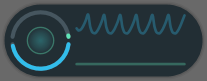
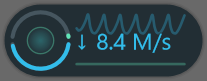
feat: center download reading until hover expands both rates
Keep download visible at its existing font size and animate its position as upload fades in. Reverse the same transition on pointer exit and retain reduced-motion behavior.

Changed region(s): [[0.6377, 0.3951, 0.8406, 0.6667], [0.4638, 0.3951, 0.6087, 0.6173], [0.3768, 0.4198, 0.4348, 0.6173]]

diff --git a/src/WinMon/FloatingRateRenderer.cpp b/src/WinMon/FloatingRateRenderer.cpp
@@ -82,7 +82,7 @@ void FloatingRateRenderer::ReleaseTarget() noexcept
 }
 
 bool FloatingRateRenderer::Render(const std::wstring& upload, const std::wstring& download,
-    const LOGFONTW& font, UINT dpi, double pulsePhase, float textOpacity) noexcept
+    const LOGFONTW& font, UINT dpi, double pulsePhase, float hoverProgress) noexcept
 {
     try
     {
@@ -252,8 +252,9 @@ bool FloatingRateRenderer::Render(const std::wstring& upload, const std::wstring
             trend(uploadHistory_, 0x61e5b7);
             trend(downloadHistory_, 0x32bdeb);
         }
-        textOpacity = std::isfinite(textOpacity) ? std::clamp(textOpacity, 0.0f, 1.0f) : 0;
-        const auto text = [&](const std::wstring& value, size_t style, D2D1_RECT_F rect, UINT32 rgb, DWRITE_TEXT_ALIGNMENT alignment)
+        hoverProgress = std::isfinite(hoverProgress) ? std::clamp(hoverProgress, 0.0f, 1.0f) : 0;
+        const float transition = hoverProgress * hoverProgress * (3 - 2 * hoverProgress);
+        const auto text = [&](const std::wstring& value, size_t style, D2D1_RECT_F rect, UINT32 rgb, DWRITE_TEXT_ALIGNMENT alignment, float opacity)
         {
             ComPtr<IDWriteTextLayout> layout;
             const auto length = static_cast<UINT32>(value.size());
@@ -269,19 +270,19 @@ bool FloatingRateRenderer::Render(const std::wstring& upload, const std::wstring
             if (scale < 1)
                 Check(layout->SetFontSize(formats_[style]->GetFontSize() * scale * 0.98f, {0, length}));
             // A narrow glyph halo keeps overlapping trends from crossing the readings.
-            color(0x222e34, textOpacity);
+            color(0x222e34, opacity);
             for (const auto offset : {D2D1::Point2F(-0.75f, 0), D2D1::Point2F(0.75f, 0),
                 D2D1::Point2F(0, -0.75f), D2D1::Point2F(0, 0.75f)})
                 target_->DrawTextLayout(D2D1::Point2F(rect.left + offset.x, rect.top + offset.y), layout.Get(), brush_.Get());
-            color(rgb, textOpacity);
+            color(rgb, opacity);
             target_->DrawTextLayout(D2D1::Point2F(rect.left, rect.top), layout.Get(), brush_.Get());
             Check(layout->GetMetrics(&metrics));
             return metrics.widthIncludingTrailingWhitespace;
         };
         const auto rateLine = [&](const std::wstring& value, const wchar_t* arrow,
-            size_t style, float top, float bottom, UINT32 rgb)
+            size_t style, float top, float bottom, UINT32 rgb, float opacity)
         {
-            text(arrow, style, D2D1::RectF(47, top, 58, bottom), rgb, DWRITE_TEXT_ALIGNMENT_LEADING);
+            text(arrow, style, D2D1::RectF(47, top, 58, bottom), rgb, DWRITE_TEXT_ALIGNMENT_LEADING, opacity);
             const auto split = value.find(L' ');
             const std::wstring unit = split == std::wstring::npos ? std::wstring{} : value.substr(split);
             ComPtr<IDWriteTextLayout> unitLayout;
@@ -291,11 +292,11 @@ bool FloatingRateRenderer::Render(const std::wstring& upload, const std::wstring
             Check(unitLayout->GetMetrics(&metrics));
             const float width = text(value.substr(0, split), style,
                 D2D1::RectF(59, top, 113 - metrics.widthIncludingTrailingWhitespace, bottom),
-                rgb, DWRITE_TEXT_ALIGNMENT_LEADING);
-            text(unit, style, D2D1::RectF(59 + width, top, 113, bottom), rgb, DWRITE_TEXT_ALIGNMENT_LEADING);
+                rgb, DWRITE_TEXT_ALIGNMENT_LEADING, opacity);
+            text(unit, style, D2D1::RectF(59 + width, top, 113, bottom), rgb, DWRITE_TEXT_ALIGNMENT_LEADING, opacity);
         };
-        rateLine(upload, L"\u2191", 2, 7, 23, 0x61e5b7);
-        rateLine(download, L"\u2193", 0, 23, 43, 0x32bdeb);
+        rateLine(upload, L"\u2191", 2, 7, 23, 0x61e5b7, transition);
+        rateLine(download, L"\u2193", 0, 15 + 8 * transition, 35 + 8 * transition, 0x32bdeb, 1);
         Check(target_->EndDraw());
         auto body = copyPixels();
         auto pixels = body;

diff --git a/tests/FloatingRateRendererTests/FloatingRateRendererTests.cpp b/tests/FloatingRateRendererTests/FloatingRateRendererTests.cpp
@@ -176,14 +176,16 @@ int main(int argc, char** argv)
             blueCurve |= b > r + 15 && b > g + 8;
         }
     Require(greenCurve && blueCurve, "both color-coded curves use the upper area too");
-    Require(renderer.Render(L"0.6 K/s", L"8.4 M/s", font, 96, 0.5, 0), "hidden text frame");
+    Require(renderer.Render(L"0.6 K/s", L"8.4 M/s", font, 96, 0.5, 0), "centered download frame");
     const auto hiddenText = renderer.Pixels();
-    Require(renderer.Render(L"999.9 G/s", L"999.9 G/s", font, 96, 0.5, 0), "hidden text ignores readings");
-    Require(hiddenText == renderer.Pixels(), "hidden glyphs and halos leave curves untouched");
-    Require(renderer.Render(L"0.6 K/s", L"8.4 M/s", font, 96, 0.5, 0.5), "half visible text");
+    Require(renderer.Render(L"999.9 G/s", L"8.4 M/s", font, 96, 0.5, 0), "default ignores upload reading");
+    Require(hiddenText == renderer.Pixels(), "upload is absent in default state");
+    Require(renderer.Render(L"0.6 K/s", L"8.4 M/s", font, 96, 0.5, 0.5), "intermediate layout");
     const auto halfText = renderer.Pixels();
     Require(renderer.Render(L"0.6 K/s", L"8.4 M/s", font, 96, 0.5, 1), "visible text");
-    Require(halfText != hiddenText && halfText != renderer.Pixels(), "fade has intermediate opacity");
+    Require(halfText != hiddenText && halfText != renderer.Pixels(), "transition has intermediate layout and opacity");
+    Require(renderer.Render(L"0.6 K/s", L"1.2 M/s", font, 96, 0.5, 0), "default download updates");
+    Require(hiddenText != renderer.Pixels(), "download remains visible without hover");
     renderer.ResetHistory();
     for (int i = 0; i < 46; ++i) renderer.AddSample(0, 0);
     renderer.AddSample(0, 1000);
@@ -191,7 +193,7 @@ int main(int argc, char** argv)
     Require(renderer.Render(L"0.0 K/s", L"0.0 K/s", font, 96, 0.5, 0), "isolated trend peak");
     bool retainedPeak = false;
     for (int y = 5; y < 50; ++y)
-        for (int x = 52; x < 126; ++x)
+        for (int x = 115; x < 126; ++x)
         {
             const DWORD p = renderer.Pixels()[y * 138 + x];
             const int r = (p >> 16) & 255, g = (p >> 8) & 255, b = p & 255;
@@ -235,7 +237,7 @@ int main(int argc, char** argv)
         SaveBitmap(renderer, evidence / "short-reading.bmp", 0x181818);
         for (int frame = 0; frame < 30; ++frame)
         {
-            Require(renderer.Render(L"128.0 K/s", L"8.4 M/s", font, 96, frame / 30.0), "pulse preview frame");
+            Require(renderer.Render(L"128.0 K/s", L"8.4 M/s", font, 96, frame / 30.0, frame < 15 ? frame / 14.0f : (29 - frame) / 14.0f), "hover transition preview frame");
             SaveBitmap(renderer, evidence / ("pulse-" + std::to_string(frame) + ".bmp"), 0x181818);
         }
     }

diff --git a/src/WinMon/RateStrip.cpp b/src/WinMon/RateStrip.cpp
@@ -493,7 +493,7 @@ void RateStrip::Shutdown() noexcept
     pulseTimerActive_ = false;
     pulsePhase_ = 0;
     hovering_ = false;
-    textOpacity_ = 0;
+    hoverProgress_ = 0;
     if (GetSafeHwnd() != nullptr)
     {
         DestroyWindow();
@@ -682,7 +682,7 @@ bool RateStrip::Render() noexcept
         RateFontSelection selection;
         return GetSafeHwnd() != nullptr && GetRateFont(selection) &&
             floatingRenderer_.Render(uploadText_, downloadText_, selection.logFont,
-                GetDpiForWindow(GetSafeHwnd()), pulseTimerActive_ ? pulsePhase_ : 0.5, textOpacity_) && floatingRenderer_.Present(GetSafeHwnd(), floatingShadow_.GetSafeHwnd());
+                GetDpiForWindow(GetSafeHwnd()), pulseTimerActive_ ? pulsePhase_ : 0.5, hoverProgress_) && floatingRenderer_.Present(GetSafeHwnd(), floatingShadow_.GetSafeHwnd());
     }
     if (GetSafeHwnd() == nullptr || size_.cx <= 0 || size_.cy <= 0 || font_.GetSafeHandle() == nullptr)
     {
@@ -892,9 +892,9 @@ void RateStrip::UpdatePulseTimer() noexcept
     BOOL animations = FALSE;
     SystemParametersInfoW(SPI_GETCLIENTAREAANIMATION, 0, &animations, 0);
     const float targetOpacity = hovering_ ? 1.0f : 0.0f;
-    if (!animations) textOpacity_ = targetOpacity;
+    if (!animations) hoverProgress_ = targetOpacity;
     const bool animate = IsWindowVisible() && animations &&
-        (floatingRenderer_.Activity() > 0 || textOpacity_ != targetOpacity);
+        (floatingRenderer_.Activity() > 0 || hoverProgress_ != targetOpacity);
     if (animate && !pulseTimerActive_)
     {
         pulseTick_ = GetTickCount64();
@@ -919,7 +919,7 @@ void RateStrip::OnTimer(UINT_PTR timer)
         }
         const ULONGLONG now = GetTickCount64();
         const float step = static_cast<float>(now - pulseTick_) / (hovering_ ? 180.0f : 220.0f);
-        textOpacity_ = hovering_ ? std::min(1.0f, textOpacity_ + step) : std::max(0.0f, textOpacity_ - step);
+        hoverProgress_ = hovering_ ? std::min(1.0f, hoverProgress_ + step) : std::max(0.0f, hoverProgress_ - step);
         const double period = 2200 - 1200 * floatingRenderer_.Activity();
         pulsePhase_ = std::fmod(pulsePhase_ + (now - pulseTick_) / period, 1.0);
         pulseTick_ = now;

diff --git a/src/WinMon/FloatingRateRenderer.h b/src/WinMon/FloatingRateRenderer.h
@@ -19,7 +19,7 @@ public:
     void AddSample(double upload, double download) noexcept;
     void ResetHistory() noexcept;
     bool Render(const std::wstring& upload, const std::wstring& download,
-        const LOGFONTW& font, UINT dpi, double pulsePhase = 0.5, float textOpacity = 1) noexcept;
+        const LOGFONTW& font, UINT dpi, double pulsePhase = 0.5, float hoverProgress = 1) noexcept;
     double Activity() const noexcept;
     bool Present(HWND window, HWND shadow = nullptr) noexcept;
     void ReleaseTarget() noexcept;

diff --git a/src/WinMon/RateStrip.h b/src/WinMon/RateStrip.h
@@ -87,7 +87,7 @@ private:
     bool floating_ = false;
     bool pulseTimerActive_ = false;
     bool hovering_ = false;
-    float textOpacity_ = 0;
+    float hoverProgress_ = 0;
     double pulsePhase_ = 0;
     ULONGLONG pulseTick_ = 0;
 };

diff --git a/CONTEXT.md b/CONTEXT.md
@@ -13,7 +13,7 @@ The two-line Upload/Download Rate text embedded on the primary bottom taskbar on
 _Avoid_: taskbar window, widget, HUD, overlay (unless contrasting implementation), main UI
 
 **Floating Rate Display**:
-An optional, borderless, always-on-top 132x48 DIP dark capsule. The right side stacks a small green Upload Rate above a larger blue Download Rate, matching their ring colors. Readings are hidden until pointer hover, fading in over 180ms and out over 220ms; curves remain visible. Disabled Windows animations switch reading visibility immediately.  Green upload and blue download trends overlap behind both readings across the full right-hand height, sharing a recent peak scale. The left ring has independent green upper and blue lower activity arcs with small gaps at both horizontal joints. A soft center-out pulse inside the ring reflects relative network activity; it stays clear of the ring strokes. While visible and active, an approximately 30 FPS native timer advances the pulse without adding Rate Samples; idle and hidden displays stop it, and Windows' disabled client-area animation setting uses a static activity glow. Direct2D/DirectWrite render at the display monitor's DPI with per-pixel alpha. The shadow occupies at most 3 DIP per side and passes mouse input through. The Rate Font family and styles are shared, but sizes fit this compact layout without changing the saved font or the Rate Strip. It has no taskbar or Alt-Tab entry, drags without activation, and opens the Operator Menu on right-click. It remains available while the Rate Strip is hidden. Graphical history resets when Network to Monitor changes or falls back. Visibility and absolute desktop position persist; first use and an unusable restored position place it at the primary work area's upper-right corner.
+An optional, borderless, always-on-top 132x48 DIP dark capsule. The right side stacks a small green Upload Rate above a larger blue Download Rate, matching their ring colors. By default only Download Rate is visible, vertically centered at its normal font size. Pointer hover moves it down while Upload Rate fades in above it; pointer exit restores the centered download-only view. The reversible transition takes 180ms in and 220ms out; curves remain visible. Disabled Windows animations switch layouts immediately.  Green upload and blue download trends overlap behind both readings across the full right-hand height, sharing a recent peak scale. The left ring has independent green upper and blue lower activity arcs with small gaps at both horizontal joints. A soft center-out pulse inside the ring reflects relative network activity; it stays clear of the ring strokes. While visible and active, an approximately 30 FPS native timer advances the pulse without adding Rate Samples; idle and hidden displays stop it, and Windows' disabled client-area animation setting uses a static activity glow. Direct2D/DirectWrite render at the display monitor's DPI with per-pixel alpha. The shadow occupies at most 3 DIP per side and passes mouse input through. The Rate Font family and styles are shared, but sizes fit this compact layout without changing the saved font or the Rate Strip. It has no taskbar or Alt-Tab entry, drags without activation, and opens the Operator Menu on right-click. It remains available while the Rate Strip is hidden. Graphical history resets when Network to Monitor changes or falls back. Visibility and absolute desktop position persist; first use and an unusable restored position place it at the primary work area's upper-right corner.
 _Avoid_: floating window, dashboard, overlay, main window
 
 **Tray Icon**:
